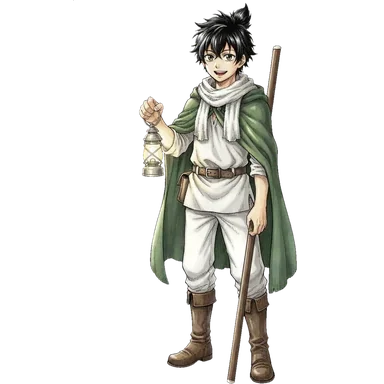
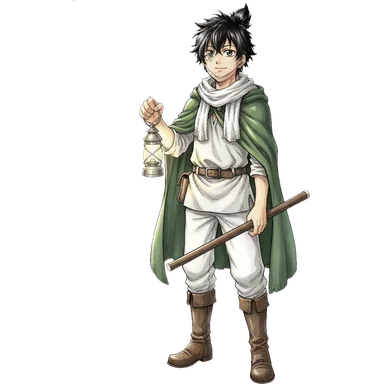
さとしの表情差分を描き直す：ポーズや剣が変わらないよう、顔だけを変えた絵に
- 表情（笑い・怒り・悲しみ・驚き）と、その口パクを Gemini で描き直し、元の絵に顔だけを重ねた（12枚）
- 構えの差分（hero_4〜6_battle）は体ごと変わるので外した
- finish-motion.py：表情の差分も顔だけを差し替える

Claude-Session: https://claude.ai/code/session_019xnD9zf1824211ZEpgvXov

diff --git a/habit-check/public/art-index.js b/habit-check/public/art-index.js
@@ -63,4 +63,4 @@ export const FAMILY_BY_COLOR = {
   "#e9e4f2": "moyamoya"
 };
 // 登場人物の表情・構えの差分（img/cast2/<名前>_<差分>.webp）
-export const CAST_VARIANTS = {"hero_6":["smile","angry","sad","surprised","battle","talk","blink","smile_talk","angry_talk","sad_talk","surprised_talk"],"hero_1":["smile","surprised","talk","blink","smile_talk","surprised_talk"],"hero_2":["talk","blink"],"hero_3":["talk","blink"],"hero_4":["battle","talk","blink"],"hero_5":["battle","talk","blink"],"rumi":["smile","angry","sad","surprised","talk","blink","smile_talk","angry_talk","sad_talk","surprised_talk"],"muki":["smile","angry","sad","surprised","battle","talk","smile_talk","angry_talk","surprised_talk"],"fumi":["smile","angry","sad","surprised","battle","talk","blink","angry_talk","surprised_talk"],"zeni":["smile","angry","sad","surprised","battle","talk","blink","smile_talk","angry_talk","sad_talk","surprised_talk"],"shirogane":["smile","angry","sad","surprised","battle","talk","smile_talk","angry_talk","sad_talk","surprised_talk"],"rensa":["smile","angry","sad","surprised","blink"],"obaasan":["smile","sad","talk","blink","smile_talk","sad_talk"],"kazoe":["smile","sad","talk","blink","smile_talk","sad_talk"],"gou":["angry","sad","talk","angry_talk","sad_talk"],"tsuma":["smile","angry","sad","surprised","talk","blink","smile_talk","angry_talk","sad_talk","surprised_talk"],"chiisana":["smile"],"tokijii":["talk"]};
+export const CAST_VARIANTS = {"hero_6":["smile","angry","sad","surprised","talk","blink","smile_talk","angry_talk","sad_talk","surprised_talk"],"hero_1":["smile","surprised","talk","blink","smile_talk","surprised_talk"],"hero_2":["talk","blink"],"hero_3":["talk","blink"],"hero_4":["talk","blink"],"hero_5":["talk","blink"],"rumi":["smile","angry","sad","surprised","talk","blink","smile_talk","angry_talk","sad_talk","surprised_talk"],"muki":["smile","angry","sad","surprised","battle","talk","smile_talk","angry_talk","surprised_talk"],"fumi":["smile","angry","sad","surprised","battle","talk","blink","angry_talk","surprised_talk"],"zeni":["smile","angry","sad","surprised","battle","talk","blink","smile_talk","angry_talk","sad_talk","surprised_talk"],"shirogane":["smile","angry","sad","surprised","battle","talk","smile_talk","angry_talk","sad_talk","surprised_talk"],"rensa":["smile","angry","sad","surprised","blink"],"obaasan":["smile","sad","talk","blink","smile_talk","sad_talk"],"kazoe":["smile","sad","talk","blink","smile_talk","sad_talk"],"gou":["angry","sad","talk","angry_talk","sad_talk"],"tsuma":["smile","angry","sad","surprised","talk","blink","smile_talk","angry_talk","sad_talk","surprised_talk"],"chiisana":["smile"],"tokijii":["talk"]};

diff --git a/habit-check/public/sw.js b/habit-check/public/sw.js
@@ -1,5 +1,5 @@
 // 画面ファイルだけをキャッシュする（/api は常にネットワーク）
-const CACHE = "habit-check-v44";
+const CACHE = "habit-check-v45";
 const SHELL = ["./", "index.html", "app.js", "aibou.js", "aibou-sprites.js", "art-index.js", "theater.js", "theater-gl.js", "battle-stage.js", "theater-script.js", "theater-speakers.js", "theater-stage.js", "guild-epilogues.js", "style.css", "manifest.webmanifest", "icons/icon-192.png", "img/walnut.jpg", "img/oak.jpg"];
 
 self.addEventListener("install", (e) => {

diff --git a/habit-check/scripts/finish-motion.py b/habit-check/scripts/finish-motion.py
@@ -105,8 +105,8 @@ def process(name, base_name, src_im, is_png):
     fig, dx, dy = align_face(base, bb, im, vb)
     canvas = Image.new("RGBA", base.size, (0, 0, 0, 0))
     canvas.alpha_composite(fig, dest=(max(0, dx), max(0, dy)), source=(max(0, -dx), max(0, -dy)))
-    if name.endswith(("_talk", "_blink")):
-        # 口パク・まばたきは顔だけを差し替える（体や手が描き変わって崩れないように）
+    if name.endswith(("_talk", "_blink", "_smile", "_angry", "_sad", "_surprised")):
+        # 口パク・まばたき・表情は顔だけを差し替える（体や手・持ち物が描き変わって崩れないように）
         canvas = face_patch(base, canvas, bb)
     canvas.save(OUT / "cast2" / f"{name}.webp", "WEBP", quality=86, method=6)
     return None
